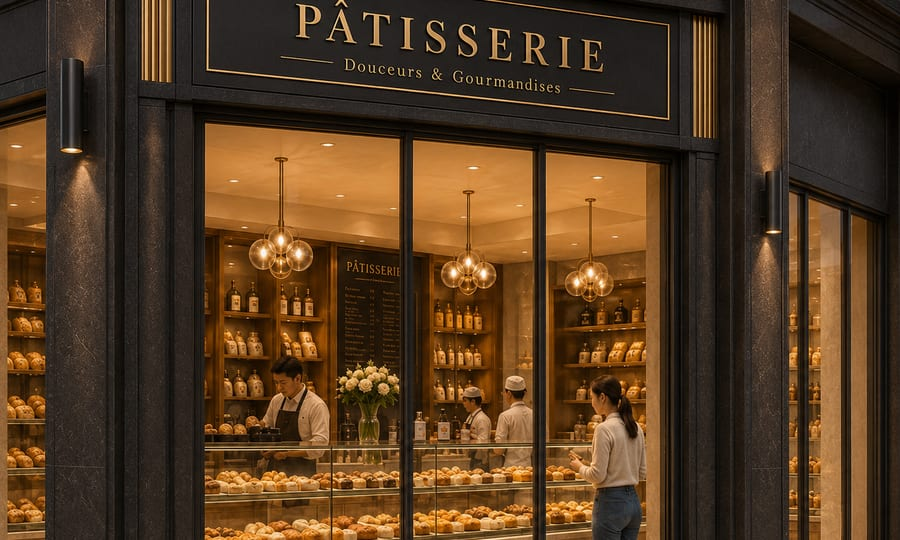
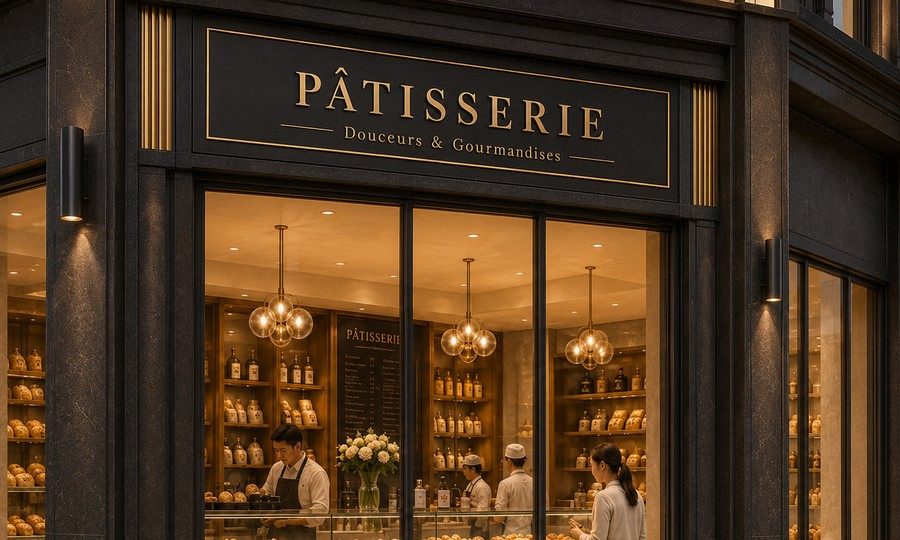
feat(media): add video and align pâtisserie

diff --git a/src/i18n/translations.ts b/src/i18n/translations.ts
@@ -404,6 +404,7 @@ export const translations = {
 			walk: 'À pied',
 			drive: 'En voiture',
 			plans: 'Plans',
+			video: 'Vidéo du projet',
 			visit: 'Planifier une visite',
 			proximityWalk: [
 				['Commerces de proximité', '2–5 min'],
@@ -735,6 +736,7 @@ export const translations = {
 			walk: 'على الأقدام',
 			drive: 'بالسيارة',
 			plans: 'التصاميم',
+			video: 'فيديو المشروع',
 			visit: 'حجز زيارة',
 			proximityWalk: [
 				['محلات قريبة', '2–5 دقائق'],
@@ -1066,6 +1068,7 @@ export const translations = {
 			walk: 'On foot',
 			drive: 'By car',
 			plans: 'Plans',
+			video: 'Project video',
 			visit: 'Schedule a visit',
 			proximityWalk: [
 				['Local shops', '2–5 min'],
@@ -1397,6 +1400,7 @@ export const translations = {
 			walk: 'A pie',
 			drive: 'En coche',
 			plans: 'Planos',
+			video: 'Vídeo del proyecto',
 			visit: 'Planificar una visita',
 			proximityWalk: [
 				['Comercios de proximidad', '2–5 min'],

diff --git a/src/components/purplePearlPage.tsx b/src/components/purplePearlPage.tsx
@@ -99,6 +99,22 @@ export const PurplePearlPage = ({ plans, contact }: { plans: PurplePearlPlan[]; 
 						</div>
 					</div>
 				</section>
+				<section className="pp-section pp-section--compact pp-video-section" id="video">
+					<div className="pp-container">
+						<h2 className="pp-title-line">{t('purple.video')}</h2>
+						<div className="pp-video-wrap">
+							<div className="pp-card pp-video-card">
+								<iframe
+									src="https://www.youtube-nocookie.com/embed/DBuh899e7PY"
+									title={t('purple.video')}
+									loading="lazy"
+									allow="accelerometer; autoplay; clipboard-write; encrypted-media; gyroscope; picture-in-picture; web-share"
+									allowFullScreen
+								/>
+							</div>
+						</div>
+					</div>
+				</section>
 				<section className="pp-section pp-section--compact" id="visite">
 					<div className="pp-container">
 						<h2 className="pp-title-line">{t('purple.visit')}</h2>

diff --git a/src/styles/purplePearlRedesignStyles.ts b/src/styles/purplePearlRedesignStyles.ts
@@ -672,6 +672,26 @@ export const purplePearlRedesignStyles = `
   color:var(--pp-plum);
   background:#fff;
 }
+.pp-video-section{
+  scroll-margin-top:110px;
+}
+.pp-video-wrap{
+  display:flex;
+  justify-content:center;
+}
+.pp-video-card{
+  width:min(100%,420px);
+  padding:10px;
+  overflow:hidden;
+}
+.pp-video-card iframe{
+  display:block;
+  width:100%;
+  aspect-ratio:9/16;
+  border:0;
+  border-radius:20px;
+  background:var(--pp-plum);
+}
 
 .pp-form-card{
   padding:32px;
